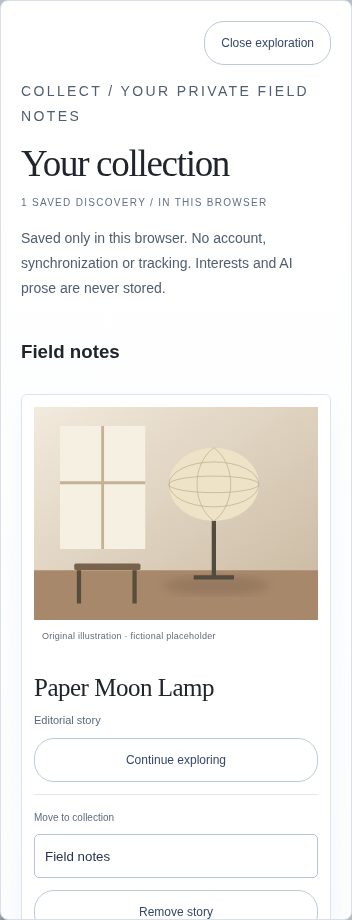
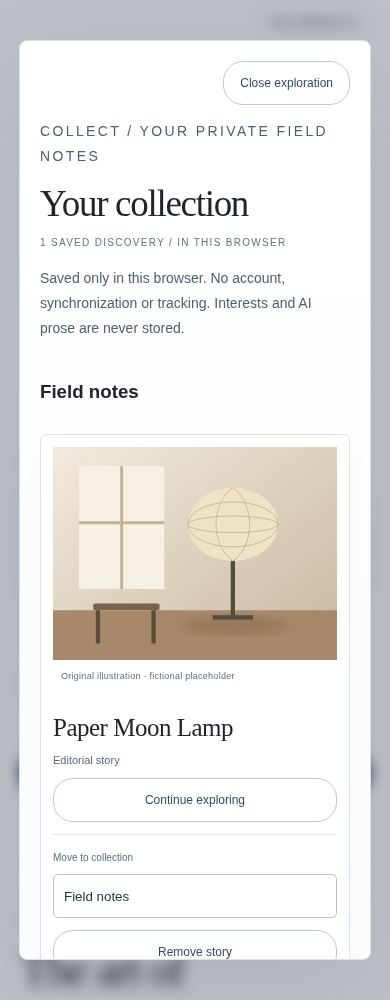
docs: capture Collect in its actual viewport without locator scrolling

diff --git a/tests/visual-journey.spec.ts b/tests/visual-journey.spec.ts
@@ -68,7 +68,7 @@ for(const width of [1440,390])test.describe(`connected visual journey ${width}`,
    await expect(collectionHeading).toBeFocused()
    await dialog.evaluate(element=>{element.scrollTop=0})
    await expect(collectionHeading).toBeInViewport()
-   await dialog.screenshot({path:`${directory}/collect-${width}.png`})
+   await page.screenshot({path:`${directory}/collect-${width}.png`})
    await page.reload();await page.getByRole('button',{name:'Your collection (1)'}).click()
    await dialog.getByRole('button',{name:'Continue exploring'}).click();await expect(dialog.locator('h2')).toHaveText(savedStory!)
    await page.keyboard.press('Escape')
